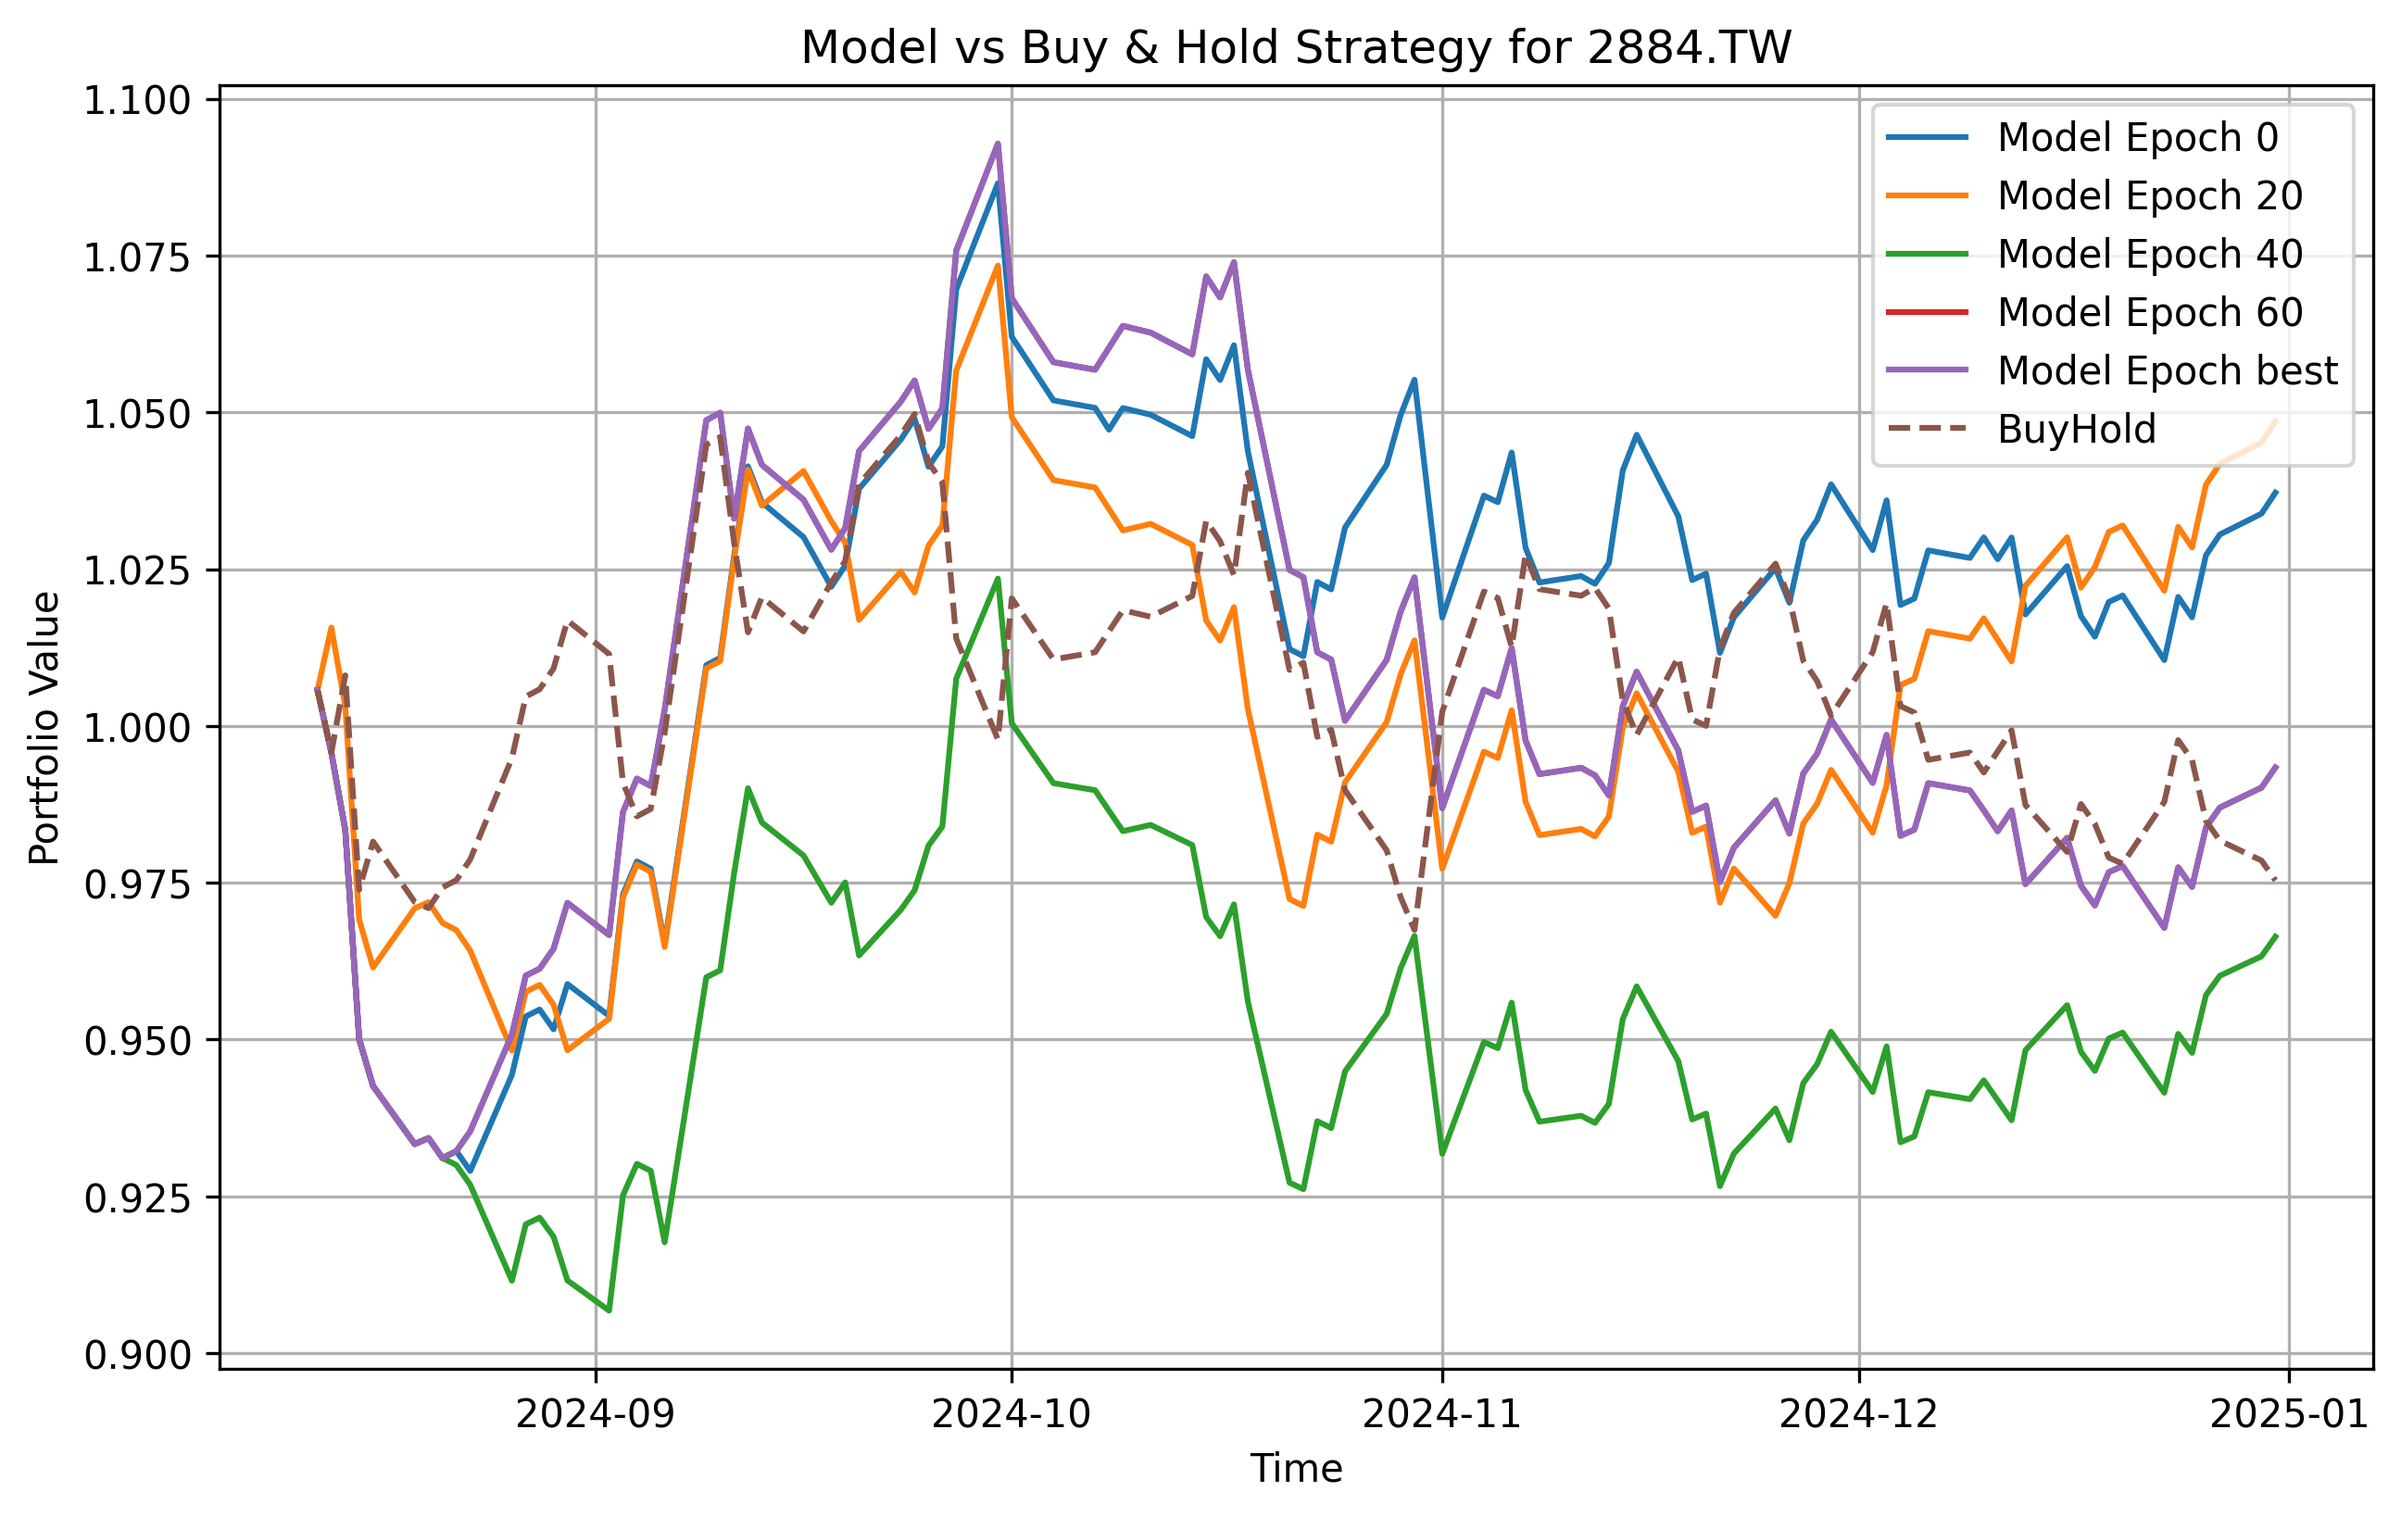
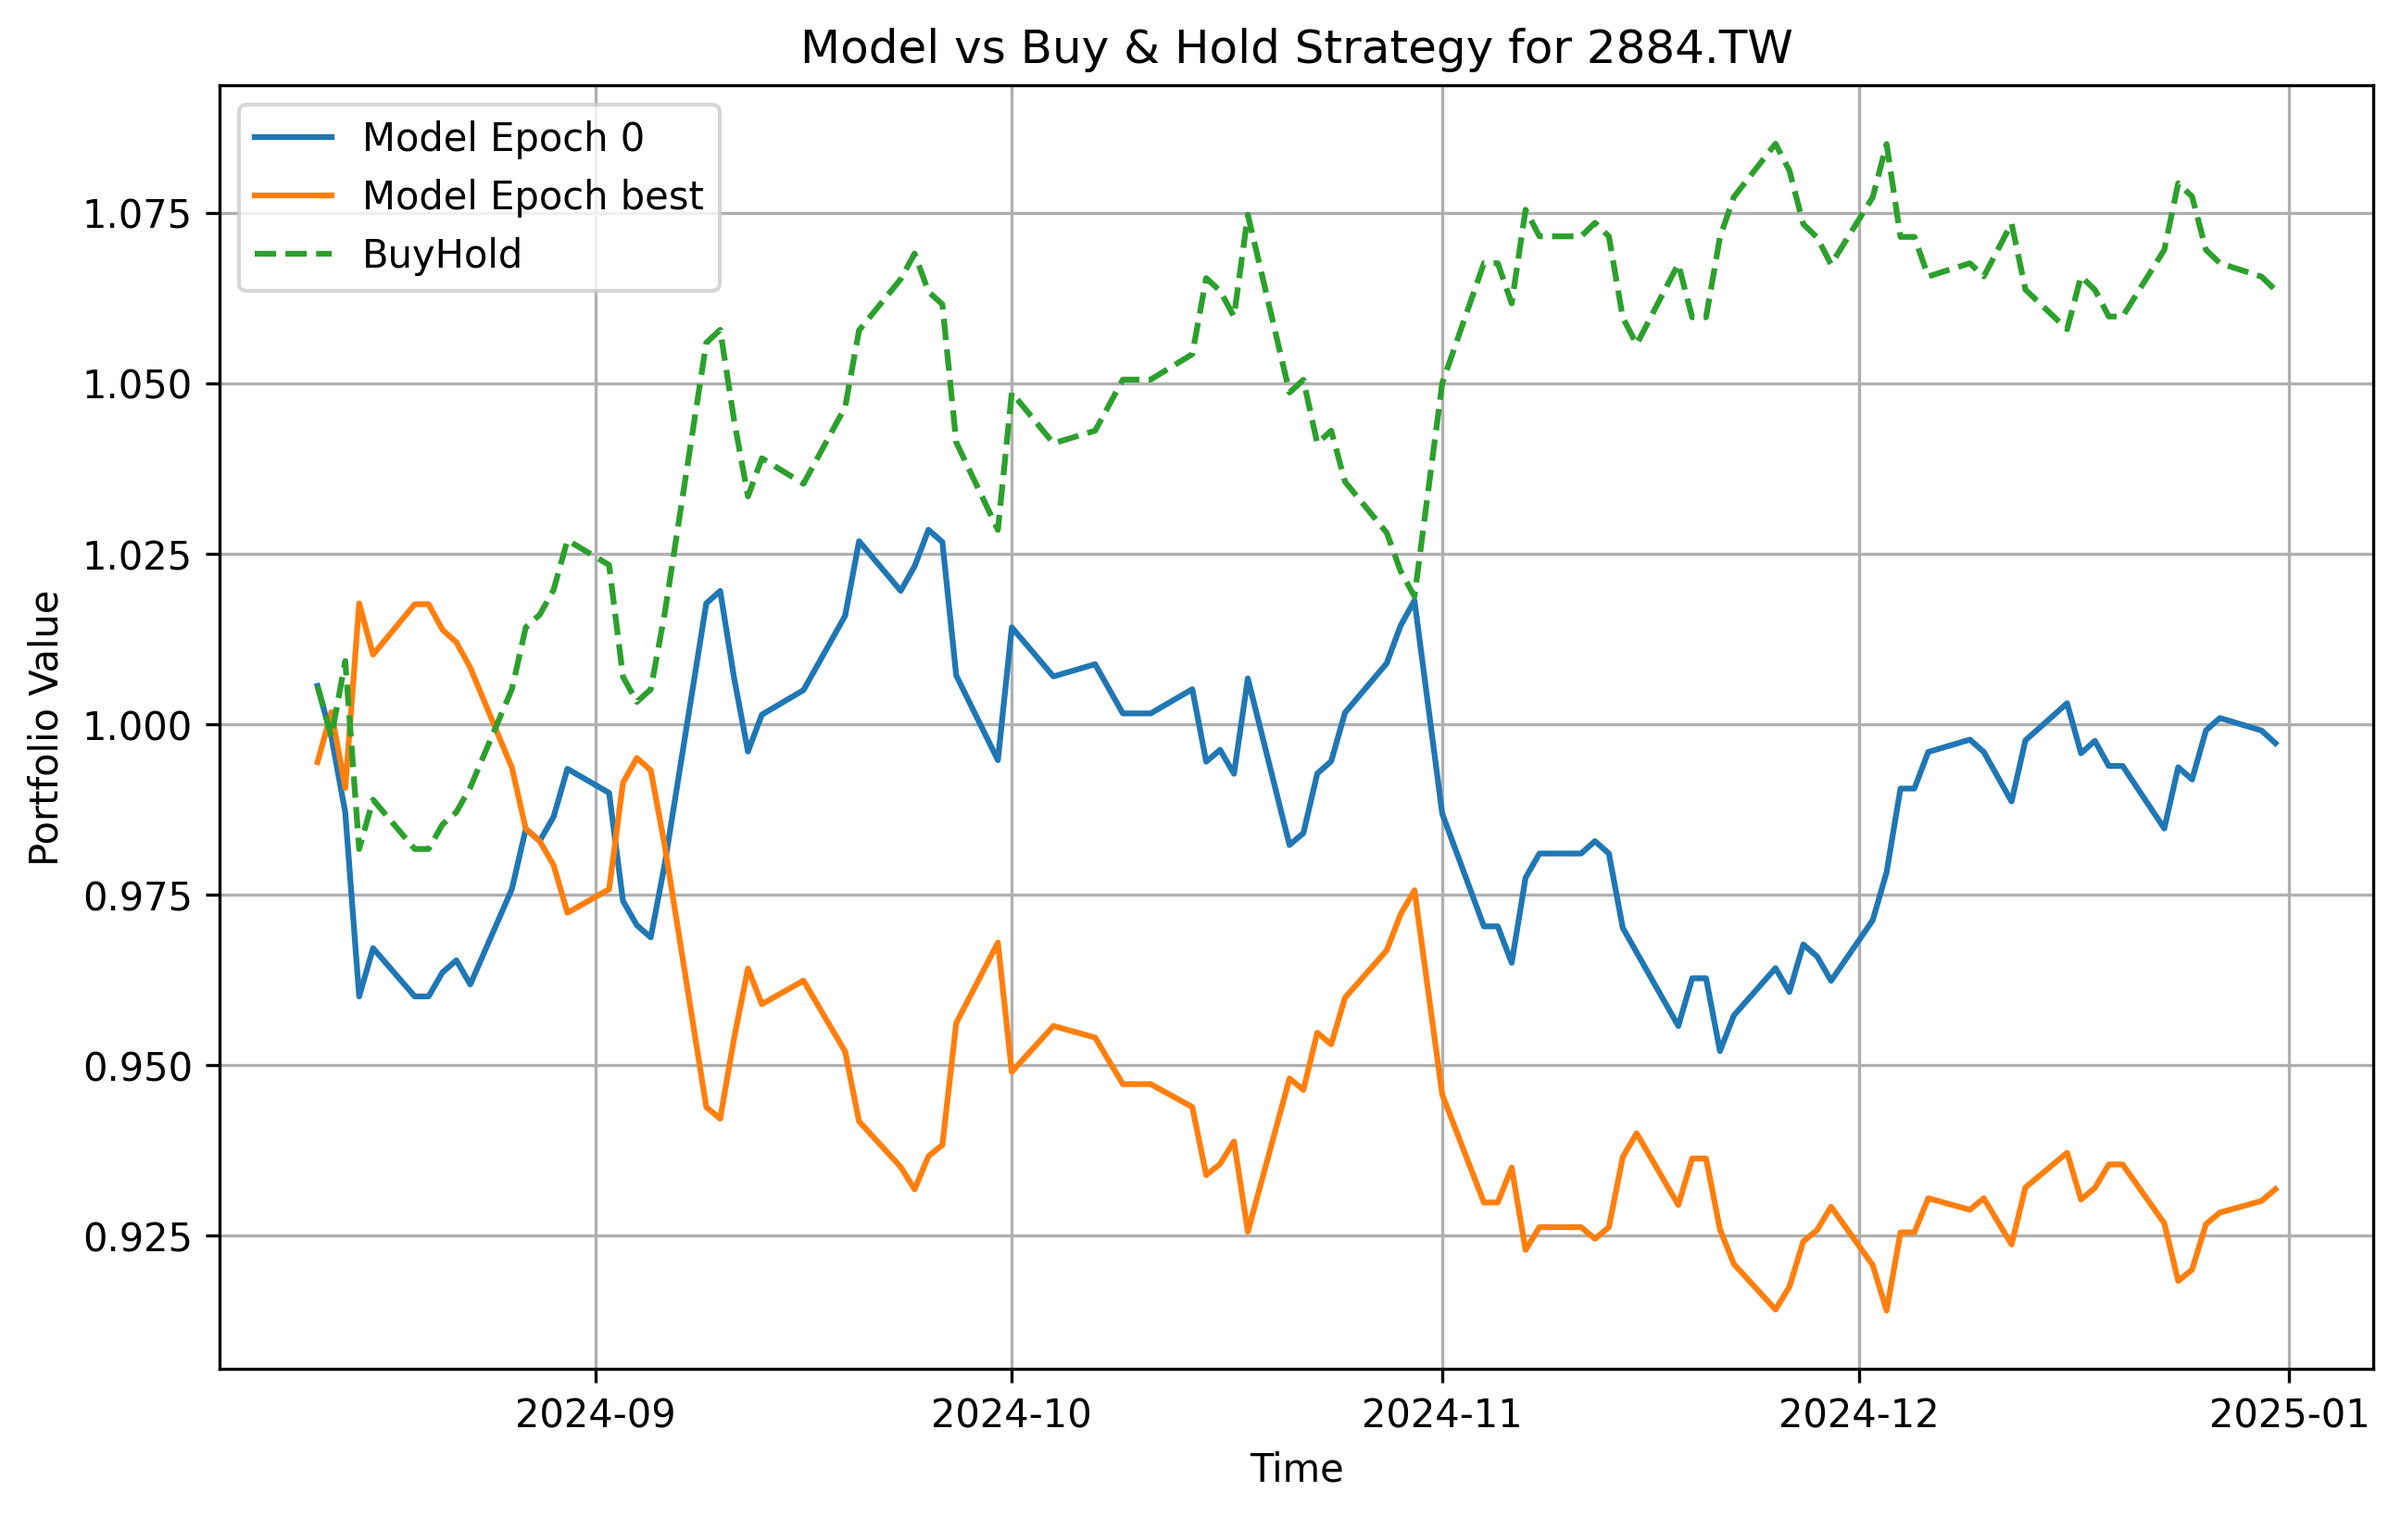
backtest.testModel static, test success, add to train later

diff --git a/Backtestor.py b/Backtestor.py
@@ -10,9 +10,8 @@ from sklearn.preprocessing import StandardScaler
 from transformer_based.utils import *
 from transformer_based.datas import TransformerData
 from transformer_based.models import Transformer
-from Trainer import Seq2SeqPredictor
 
-device = torch.device('cpu')
+device = torch.device("cuda" if torch.cuda.is_available() else "cpu")
 
 class Backtestor():
     def __init__(self, stock, model, data, model_dir="./"):
@@ -26,21 +25,8 @@ class Backtestor():
     def loadModel(self, epoch):
         if epoch == "best":
             self.model.load_state_dict(torch.load(f'{self.model_dir}{self.model.__name__}-result/{self.stock}_best.pt'))
-            self.model.to(device)
         else:
             self.model.load_state_dict(torch.load(f'{self.model_dir}{self.model.__name__}-temp/{self.stock}_epoch_{epoch}.pt'))
-            self.model.to(device)
-    
-    
-    def testing(self, loader):
-        with torch.no_grad():
-            # testloader number of batch = 1
-            self.model.eval()
-            for x_test, y_test in loader:
-                _, result = self.model(src=self.data.src, tgt=x_test, test=True) # train, test set train = True, valid set False
-                result = result[:, -1, -1].cpu().numpy()
-                truth = y_test[:, -1, -1].cpu().numpy()
-        return result, truth
     
     def getLoader(self, dataset = "test"):
         if dataset == "test":
@@ -52,61 +38,73 @@ class Backtestor():
 
         return loader
     
-    def predict(self, dataset = "test", epoch="best"):
-        print(f"Predicting epoch {epoch}...")
+    def testBuyHold(self, loader):
         
-        loader = self.getLoader(dataset)
-        self.loadModel(epoch)        
-        result, truth = self.testing(loader)
+        for _, y_test in loader:
+            truth = y_test[:, -1, -1]
         
-        return result, truth
-
-    def backtestModel(self, result, truth, thres: int = 0, short: bool = False):
         asset = 1
         asset_hist = []
-        for doc_1, pred in zip(truth, result):
-            if pred > thres:
-                asset *= (1 + doc_1/100)
-            if short and pred < thres:
-                asset *= (1 - doc_1/100)
+
+        for doc_1 in truth:
+            asset *= (1 + doc_1.item())
             asset_hist.append(asset)
             
         return asset_hist
-
-    def backtestBuyHold(self, truth):
-        asset_buyhold = 1
-        asset_buyhold_hist = []
-
-        for doc_1 in truth:
-            asset_buyhold *= (1 + doc_1/100)
-            asset_buyhold_hist.append(asset_buyhold)
-
-        return asset_buyhold_hist
     
     def getTimeTest(self, len_test):
         return self.data.data.index[-len_test:]
 
-    def main(self, epochs: list = [], short: bool = True):
+    @staticmethod
+    def testModel(model, loader, src, short):
         
+        def cumProduct(result, truth, short):
+            truth[result >= 0] = 1 + truth[result >= 0]
+            if short:
+                truth[result < 0] = 1 - truth[result < 0]
+            else:
+                truth[result < 0] = 1
+            return torch.cumprod(truth, dim=0)
+        
+        with torch.no_grad():
+            # testloader number of batch = 1
+            model.eval()
+            for x_test, y_test in loader:
+                x_test, y_test, src = x_test.to(device), y_test.to(device), src.to(device)
+                _, result = model(src=src, tgt=x_test)
+                result = result[:, -1, -1]
+                truth = y_test[:, -1, -1]
+                
+        asset_hist = cumProduct(result, truth, short)
+        asset_hist = asset_hist.cpu().numpy()
+        return asset_hist[-1], asset_hist
+
+    def main(self, epochs: list = [], short: bool = True):
+        """
+        Backtest with test set
+        """
         epochs.append("best")
         epochs.append("buyhold")
         
         plt.figure(figsize=(10, 6)) 
+        
+        loader = self.getLoader("test")
+        test_len = self.data.test_len
+        time = self.getTimeTest(test_len)
         
         for epoch in epochs:
             
             assert epoch is not int or epoch % 10 == 0, "Epoch must be multiple of 10"
             
             if epoch == "buyhold":
-                asset_hist = self.backtestBuyHold(truth)
-                time = self.getTimeTest(result.shape[0])
+                asset_hist = self.testBuyHold(loader)
                 df = pd.DataFrame({"BuyHold": asset_hist}).set_index(time)
                 plt.plot(df["BuyHold"], linestyle="dashed", label=f"BuyHold")  # Buy & Hold strategy
                 continue
                 
-            result, truth = self.predict(dataset="test", epoch=epoch)
-            asset_hist = self.backtestModel(result, truth, 0, short)
-            time = self.getTimeTest(result.shape[0])
+            print(f"Predicting epoch {epoch}...")
+            self.loadModel(epoch)        
+            asset, asset_hist = self.testModel(self.model, loader, self.data.src, short)
             df = pd.DataFrame({"Model": asset_hist,}).set_index(time)
             plt.plot(df["Model"], label=f"Model Epoch {epoch}")   # Model performance
         

diff --git a/transformer_based/datas.py b/transformer_based/datas.py
@@ -36,9 +36,9 @@ class TransformerData():
         - loaders: (batch size, seq len, features)
         - src: (1, total seq len, features)
         """
-        self.train_size = None
-        self.valid_size = None
-        self.test_size = None
+        self.train_len = None
+        self.valid_len = None
+        self.test_len = None
         self.trainloader = None
         self.validloader = None
         self.testloader = None
@@ -62,7 +62,7 @@ class TransformerData():
         self.data['dl'] = self.data['Low'].pct_change() * 100
         self.data['dc'] = self.data['Close'].pct_change() * 100
         self.data['dv'] = self.data['Volume'].pct_change() * 100
-        self.data['doc'] = ((self.data['Close'] - self.data['Open'])/self.data['Open'])*100
+        self.data['doc'] = ((self.data['Close'] - self.data['Open'])/self.data['Open'])
         
         """
         self.data['doc_1'] = \
@@ -83,8 +83,8 @@ class TransformerData():
             size (int, optional): need <= train size. Defaults to 2500.
         """
         scaler = StandardScaler()
-        scaler.fit(self.data[['do', 'dh', 'dl', 'dc', 'dv', 'doc']][:self.train_size])
-        self.data[['do', 'dh', 'dl', 'dc', 'dv', 'doc']] = scaler.transform(self.data[['do', 'dh', 'dl', 'dc', 'dv', 'doc']])
+        scaler.fit(self.data[['do', 'dh', 'dl', 'dc', 'dv']][:self.train_len])
+        self.data[['do', 'dh', 'dl', 'dc', 'dv']] = scaler.transform(self.data[['do', 'dh', 'dl', 'dc', 'dv']])
 
     def getDate(self):
         # remove first window-1 and last one since y shift 1
@@ -114,10 +114,10 @@ class TransformerData():
         return torch.tensor(X, dtype=torch.float32), torch.tensor(y, dtype=torch.float32)
     
     def splitSize(self, percentage_test: float = 0.2, percentage_valid: float = 0.2):
-        self.test_size = int(len(self.data) * percentage_test)
-        self.train_size = len(self.data) - self.test_size
-        self.valid_size = int(self.train_size * percentage_valid)
-        self.train_size = self.train_size - self.valid_size
+        self.test_len = int(len(self.data) * percentage_test)
+        self.train_len = len(self.data) - self.test_len
+        self.valid_len = int(self.train_len * percentage_valid)
+        self.train_len = self.train_len - self.valid_len
     
     def trainTestSplit(self, X: torch.tensor, y: torch.tensor):
         """get train, valid, test for transfomer decoder
@@ -132,8 +132,8 @@ class TransformerData():
             
             return x_train, x_test, y_train, y_test, 
     
-        x_train, x_test, y_train, y_test = split(X, y, self.test_size)
-        x_train, x_valid, y_train, y_valid = split(x_train, y_train, self.valid_size)
+        x_train, x_test, y_train, y_test = split(X, y, self.test_len)
+        x_train, x_valid, y_train, y_valid = split(x_train, y_train, self.valid_len)
         
         print(f"""Data Shape: \
             x_train: {x_train.shape}, \

diff --git a/task.py b/task.py
@@ -31,8 +31,6 @@ if __name__ == "__main__":
     
     # Parse arguments
     args = parser.parse_args()
-    print(args)
-    print(args.task, args.model, args.stock)
 
     task = args.task
     stock = args.stock
@@ -81,6 +79,7 @@ if __name__ == "__main__":
     if task == "train":
         predictor = Seq2SeqPredictor(stock, model=model, data=data, model_dir=model_dir, num_epochs=200, lr=0.001)
         predictor.train()
+        
     if task == "test":
         predictor = Backtestor(stock, model=model, data=data, model_dir=model_dir)
         predictor.main(epochs=[0, 20, 40, 60], short=True)

diff --git a/transformer_based/models.py b/transformer_based/models.py
@@ -96,7 +96,6 @@ class Transformer(nn.Module):
         tgt: torch.tensor, 
         src: torch.tensor = None, 
         memory: torch.tensor = None,
-        test: bool = False,
         ) -> torch.tensor:
         
         """
@@ -104,10 +103,6 @@ class Transformer(nn.Module):
         src: (batch, seq, feature) = (1, seq_src, d_model), a long seq
         tgt: (batch, seq, feature) = (batch, seq_tgt = window, d_model)
         """     
-        
-        if test:
-            global device
-            device = tgt.device
         
         # Encoder
         """

diff --git a/Trainer.py b/Trainer.py
@@ -32,7 +32,7 @@ class Seq2SeqPredictor:
         self.lr = lr
         self.model_dir = model_dir
         
-        # Data Preparation
+        # Data 
         self.data = data
         
         # Accelerator setup
